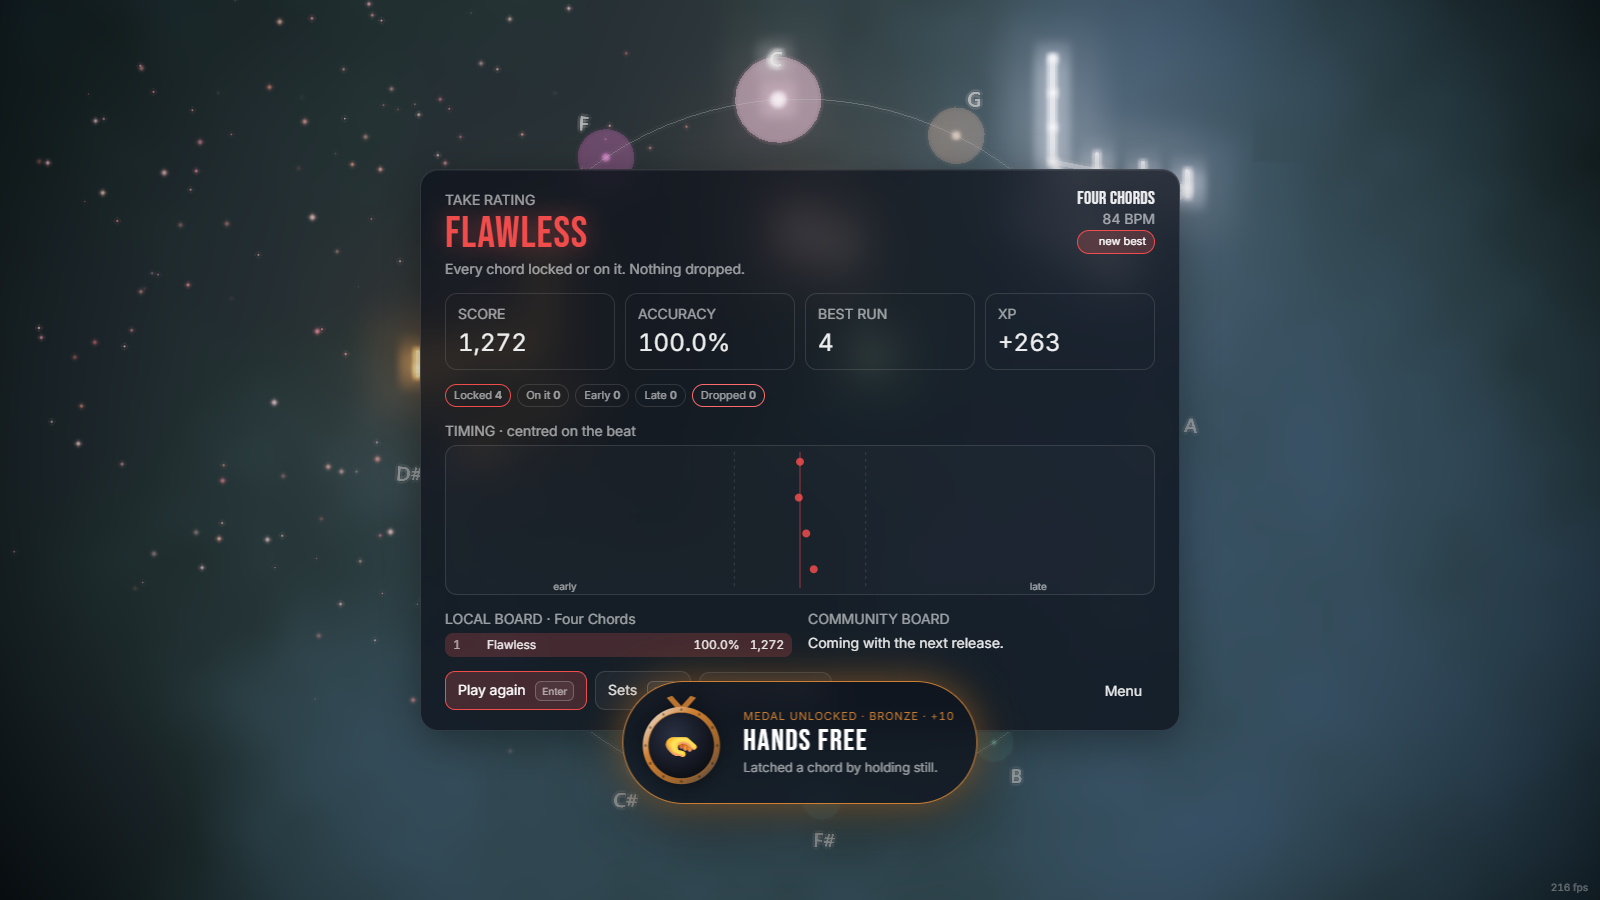
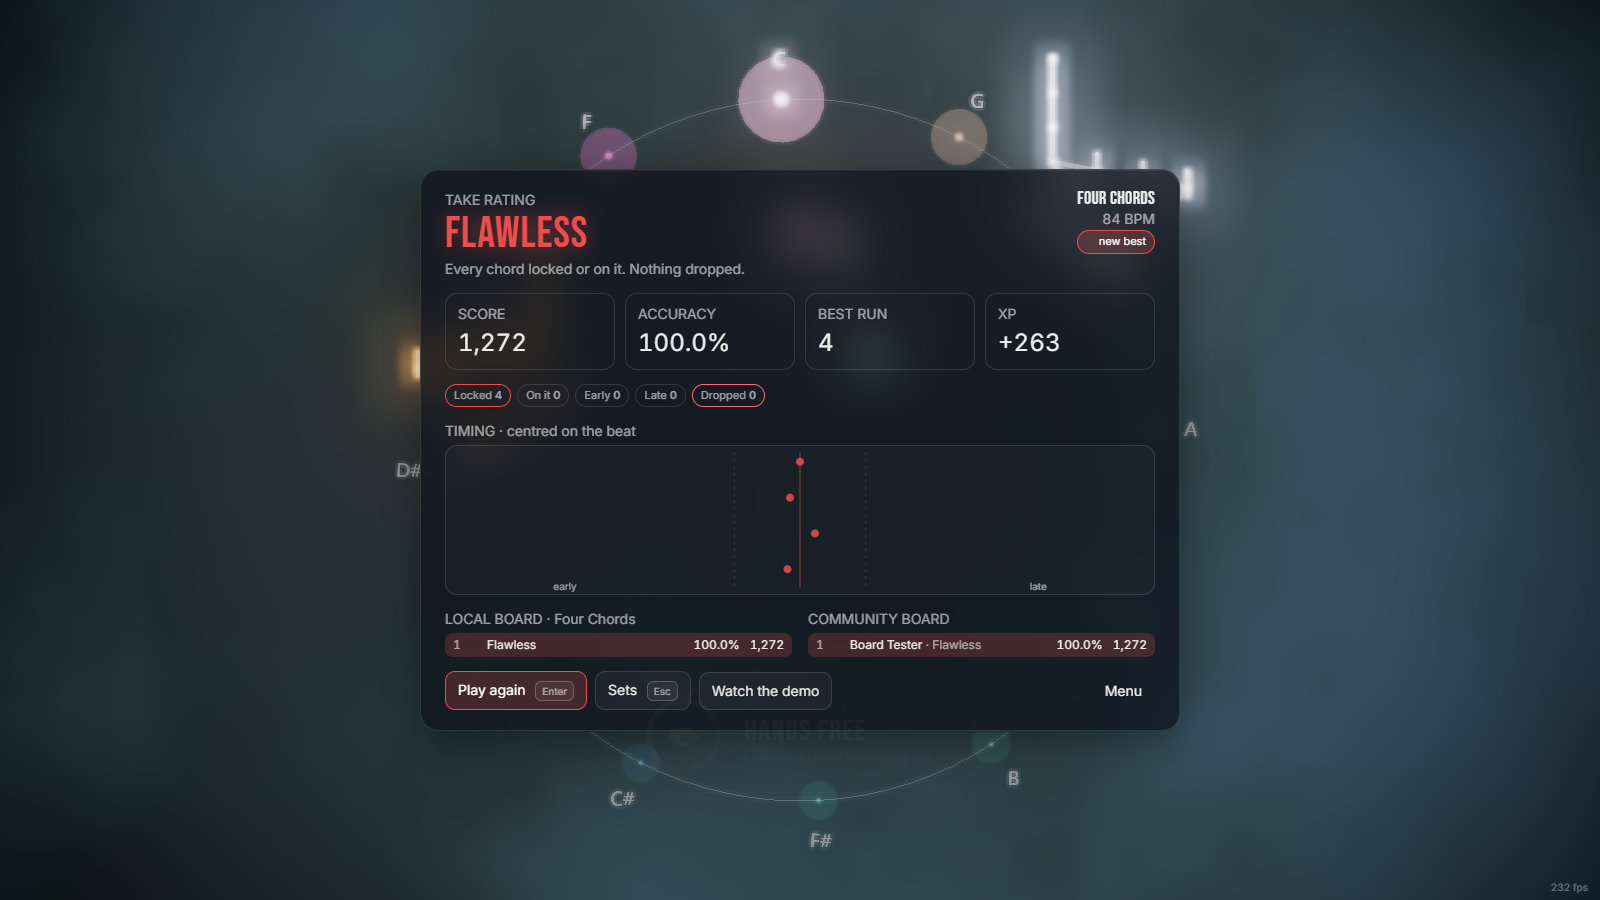
Stage phase 3: community boards (post finished sets when signed in, board on Results and Sets), integer accuracy accepted by the service

diff --git a/app/src/lib/stage/Results.svelte b/app/src/lib/stage/Results.svelte
@@ -6,6 +6,9 @@
   import { songById } from '../learn/songs';
   import { DEMO_SONGS } from '../demo/songs';
   import { records } from './records.svelte';
+  import { fetchBoard, signedIn } from './board.svelte';
+  import type { BoardEntry } from '../community/api';
+  import { settings } from '../state/settings.svelte';
   import { accuracy, JUDGMENT_INFO, RATING_INFO, rating, VARIATIONS, WINDOWS, type Judgment } from './score';
   import { sfx } from './sfx';
   import { stage } from './stage.svelte';
@@ -14,10 +17,14 @@
   const s = r?.score;
   const rate = $derived(s ? rating(s) : 'rough');
   let revealed = $state(false);
+  let community = $state<BoardEntry[] | null>(null);
+  let communityError = $state('');
   const judgments: Judgment[] = ['locked', 'onit', 'early', 'late', 'dropped'];
   const board = $derived(records.recent.filter((x) => x.songId === r?.songId).sort((a, b) => b.score - a.score).slice(0, 10));
 
   onMount(() => {
+    // the post from the set may still be in flight; give it a moment, then read the board fresh
+    if (r) setTimeout(() => fetchBoard(r.songId, true).then((e) => (community = e)).catch((e) => (communityError = e?.message ?? 'offline')), 1200);
     const t = setTimeout(() => {
       revealed = true;
       if (rate === 'flawless' || rate === 'pocket') sfx.fanfare();
@@ -112,7 +119,17 @@
         </div>
         <div class="col" style="gap:4px; flex:1">
           <span class="sm dim">COMMUNITY BOARD</span>
-          <span class="hint">Coming with the next release.</span>
+          {#if community === null && !communityError}<span class="hint">Loading…</span>
+          {:else if communityError}<span class="hint">Board unavailable right now.</span>
+          {:else if !community?.length}<span class="hint">Nobody has posted this song yet.{#if !signedIn()} Sign in on the Community page to post yours.{/if}</span>
+          {:else}
+            {#each community as e, i (e.id)}
+              <div class="brow" class:me={settings.s.communityToken && e.author?.handle && e.author.handle === settings.s.communityHandle}>
+                <span class="num dim">{i + 1}</span><span>{e.author?.display_name ?? e.author?.handle ?? 'someone'} <span class="dim">· {RATING_INFO[e.rating as keyof typeof RATING_INFO]?.label ?? e.rating}</span></span><span class="num">{(e.accuracy * 100).toFixed(1)}%</span><span class="num">{e.score.toLocaleString()}</span>
+              </div>
+            {/each}
+            {#if !signedIn()}<span class="hint">Sign in on the Community page to post yours.</span>{/if}
+          {/if}
         </div>
       </div>
 

diff --git a/app/src/lib/stage/Sets.svelte b/app/src/lib/stage/Sets.svelte
@@ -14,6 +14,8 @@
   import { difficultyOf, DIFFICULTY_LABELS } from './difficulty';
   import { records } from './records.svelte';
   import { RATING_INFO, VARIATIONS, type VariationId } from './score';
+  import { fetchBoard } from './board.svelte';
+  import type { BoardEntry } from '../community/api';
   import { borrow, release } from './menuLoop';
   import { sfx } from './sfx';
   import { stage } from './stage.svelte';
@@ -22,6 +24,14 @@
   let view = $state<'wheel' | 'list'>('wheel');
   let q = $state('');
   let previewing = $state(false);
+  let board = $state<BoardEntry[] | null>(null);
+  // Community board for the selected song, fetched lazily and cached a minute.
+  $effect(() => {
+    const id = selected?.id ?? selected?.name;
+    board = null;
+    if (!id) return;
+    fetchBoard(id).then((b) => (board = b)).catch(() => (board = []));
+  });
 
   const songs = $derived<Song[]>([...BUILTIN_SONGS, ...DEMO_SONGS, ...custom]);
   const filtered = $derived(songs.filter((s) => !q || `${s.name} ${s.tags.join(' ')} ${s.key} ${s.mode}`.toLowerCase().includes(q.toLowerCase())));
@@ -200,6 +210,7 @@
       </div>
       {#if selected.description}<p class="desc">{selected.description}</p>{/if}
       <div class="row wrap" style="gap:4px">{#each selected.tags.filter((t) => t !== 'builtin') as t}<span class="chip">{t}</span>{/each}</div>
+      <div class="kv"><span>Community board</span><span class="dim">{board === null ? '…' : board.length ? `${board.length} posted · top ${board[0].score.toLocaleString()} by ${board[0].author?.display_name ?? 'someone'}` : 'nobody yet'}</span></div>
       <div class="kv"><span>Best take</span>{#if best}<span><b class="acc">{RATING_INFO[best.rating].label}</b> · {(best.accuracy * 100).toFixed(1)}% · run {best.bestRun}</span>{:else}<span class="dim">not rated yet</span>{/if}</div>
       <div class="col" style="gap:4px">
         <span class="sm dim">Variations</span>

diff --git a/app/src/lib/stage/board.svelte.ts b/app/src/lib/stage/board.svelte.ts
@@ -1,0 +1,35 @@
+// Community board glue for Stage: post a finished set when signed in, fetch a
+// song's board. Failures are quiet (a toast at most): the local board is the
+// source of truth on this device and the community one is a bonus.
+import type { BoardEntry } from '../community/api';
+import { communityApi } from '../community/client';
+import { settings } from '../state/settings.svelte';
+import { ui } from '../state/ui.svelte';
+import type { SetRecord } from './records.svelte';
+
+const cache = new Map<string, { at: number; entries: BoardEntry[] }>();
+
+export const signedIn = () => !!settings.s.communityToken;
+
+export async function fetchBoard(songId: string, force = false): Promise<BoardEntry[]> {
+  const hit = cache.get(songId);
+  if (!force && hit && Date.now() - hit.at < 60_000) return hit.entries;
+  const api = communityApi(() => {});
+  const r = await api.scores(songId, 10);
+  cache.set(songId, { at: Date.now(), entries: r.scores });
+  return r.scores;
+}
+
+/** Post a set; returns the saved entry or null when not signed in / rehearsal / offline. */
+export async function postSet(r: SetRecord): Promise<BoardEntry | null> {
+  if (!signedIn() || r.variations.includes('rehearsal')) return null;
+  try {
+    const api = communityApi();
+    const saved = await api.postScore({ song_id: r.songId, score: r.score, accuracy: r.accuracy, run: r.bestRun, rating: r.rating, variations: r.variations });
+    cache.delete(r.songId);
+    return saved;
+  } catch (e: any) {
+    ui.toast(`Board: ${e?.message ?? 'could not post the set'}`, 'warn', 4000);
+    return null;
+  }
+}

diff --git a/app/src/lib/stage/SetPlay.svelte b/app/src/lib/stage/SetPlay.svelte
@@ -18,6 +18,7 @@
   import { store } from '../storage/store';
   import { ensureWasm } from '../tracking/parser';
   import { records } from './records.svelte';
+  import { postSet } from './board.svelte';
   import { accuracy, applyHit, inTheGroove, JUDGMENT_INFO, judgeHit, newSetScore, rating, RATING_ORDER, VARIATIONS, WINDOWS, type Judgment, type SetScore } from './score';
   import { sfx } from './sfx';
   import { stage } from './stage.svelte';
@@ -244,7 +245,9 @@
     // anything never judged is a drop
     for (const t of targets) if (!judged.has(t.index)) score = applyHit(score, { target: t.index, judgment: 'dropped', beat: t.startBeat }, vars);
     const r = rating(score);
-    const rec = records.record({ songId: song.id ?? song.name, songName: song.name, score: score.score, accuracy: accuracy(score), bestRun: score.bestRun, rating: r, variations: vars, at: Date.now() });
+    const entry = { songId: song.id ?? song.name, songName: song.name, score: score.score, accuracy: accuracy(score), bestRun: score.bestRun, rating: r, variations: vars, at: Date.now() };
+    const rec = records.record(entry);
+    void postSet(entry);
     if (!vars.includes('rehearsal')) achievements.track({ kind: 'set_done', songId: song.id ?? song.name, ratingTier: RATING_ORDER.indexOf(r), bestRun: score.bestRun });
     stage.lastResult = { songId: song.id ?? song.name, songName: song.name, score, variations: vars, bpm, newBest: rec.newBest, xpGained: rec.xpGained };
     restore();

diff --git a/app/src/lib/community/api.ts b/app/src/lib/community/api.ts
@@ -274,6 +274,29 @@ export class CommunityApi {
   share(id: string) {
     return this.req<{ code: string; url: string }>('POST', `/items/${encodeURIComponent(id)}/share`);
   }
+
+  /** Stage board for a song: each player's best set, highest first. */
+  scores(songId: string, limit = 10) {
+    return this.req<{ scores: BoardEntry[] }>('GET', `/scores?song=${encodeURIComponent(songId)}&limit=${limit}`);
+  }
+
+  /** Post a finished set (signed in; rehearsal sets are refused by the server). */
+  postScore(body: { song_id: string; score: number; accuracy: number; run: number; rating: string; variations: string[] }) {
+    return this.req<BoardEntry>('POST', '/scores', body);
+  }
+}
+
+export interface BoardEntry {
+  id: string;
+  user_id: string;
+  song_id: string;
+  score: number;
+  accuracy: number;
+  run: number;
+  rating: string;
+  variations: string[];
+  created_at: string;
+  author?: User;
 }
 
 function attemptSignal(ms: number): AbortSignal | undefined {
